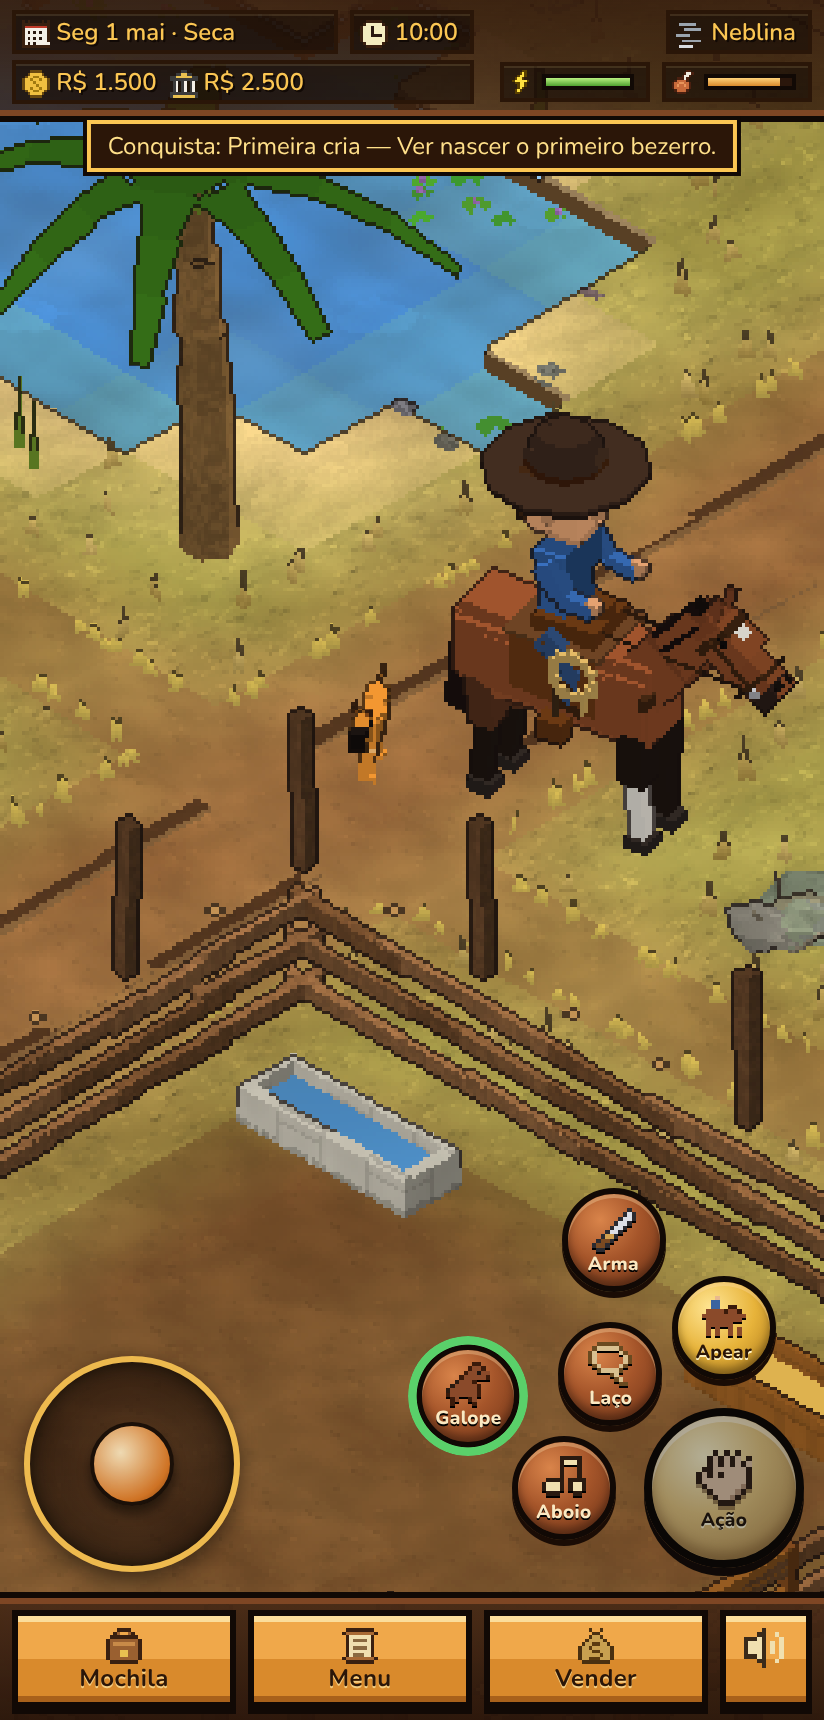
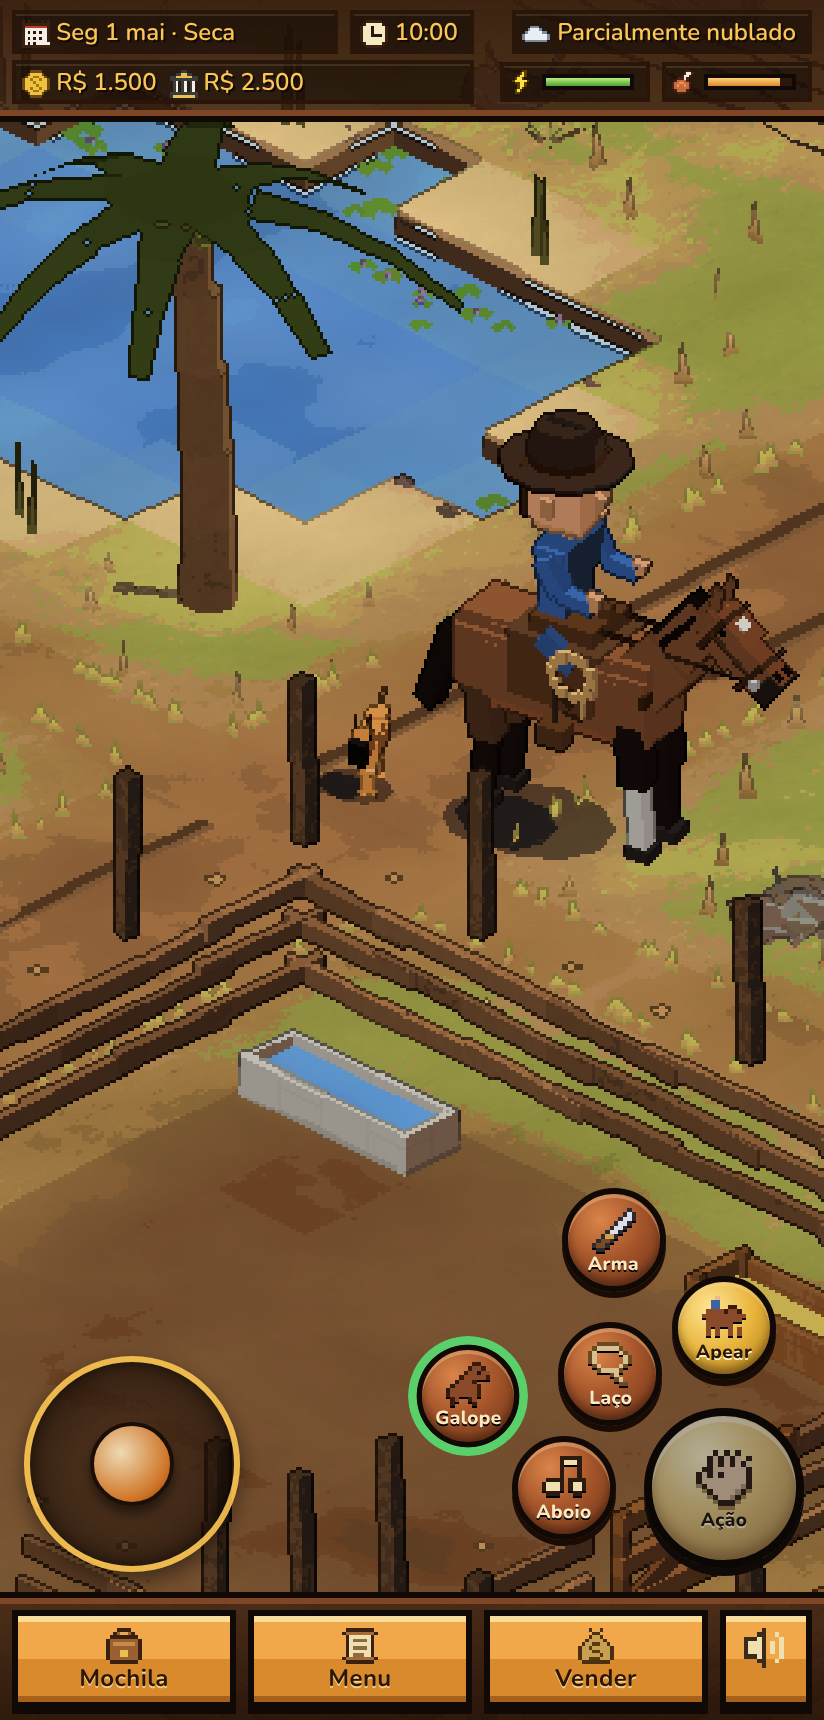
docs: v27 — relatório da revisão do Diretor de Arte e comparação
Claude-Session: https://claude.ai/code/session_019QA4KiVP1fz5aaff1yMbP4

diff --git a/production/relatorio_graficos_2.md b/production/relatorio_graficos_2.md
@@ -114,7 +114,24 @@ Na v20, o 3D era uma homenagem ao PlayStation 1. Mesmo assim, ficava abaixo dos 
 - A diferença que sobra é de técnica, não de desenho: o jogo é um mundo 3D de blocos com luz do sol, e os desenhos são pixel art 2D com luz chapada.
 - Para chegar perto de 100%, seria preciso trocar o 3D por sprites desenhados à mão, no mesmo estilo dos desenhos.
 
-## Como está agora, comparado a jogos atuais
+#### Revisão do Diretor de Arte (agente `art-director` do estúdio)
+O que foi aplicado:
+- **Contorno:** 1 px na cor do próprio objeto ×0,45, mais linhas internas ×0,70 e um limiar maior.
+- **Sombras:** as sombras no chão voltaram no pixel art; a névoa estava apagando todas.
+- **Luz:** três tons — topo 1,00, lado claro 0,88 e lado escuro 0,64, com tom frio.
+- **Cores:** sem o reforço de saturação, contraste 1,05, e cada cor puxada 45% para a paleta terrosa da revisão (24 cores).
+- **Resolução:** 270 px.
+- **Chapéu:** aba menor, em couro #7d5232.
+- **Cupim:** da cor do corpo (antes saía uma caixa preta).
+- **Cores por raça:** seguem a folha do jogador.
+- **Girolando:** branco com manchas pretas.
+- **Arame:** mais claro.
+- **Chão:** textura mais limpa e 60% menos tufos de capim.
+
+O que ficou de fora e por quê:
+- **Meias brancas do cavalo:** ficam, porque são escolha do jogador na personalização.
+- **Proporção "chibi" de 4 cabeças, reforma do corpo do cavalo e do boi (pernas finas, barbela), oclusão na base e arame fora do contorno:** são mudanças grandes nos modelos e ficam para a próxima etapa.
+
 
 - **Estilo PS1:** agora está no nível dos bons jogos de fazenda de PS1, e acima deles em luz (sombras pelo sol, água refletindo, céu dinâmico).
 - **Ainda falta para jogos atuais de 2024–2026:**
